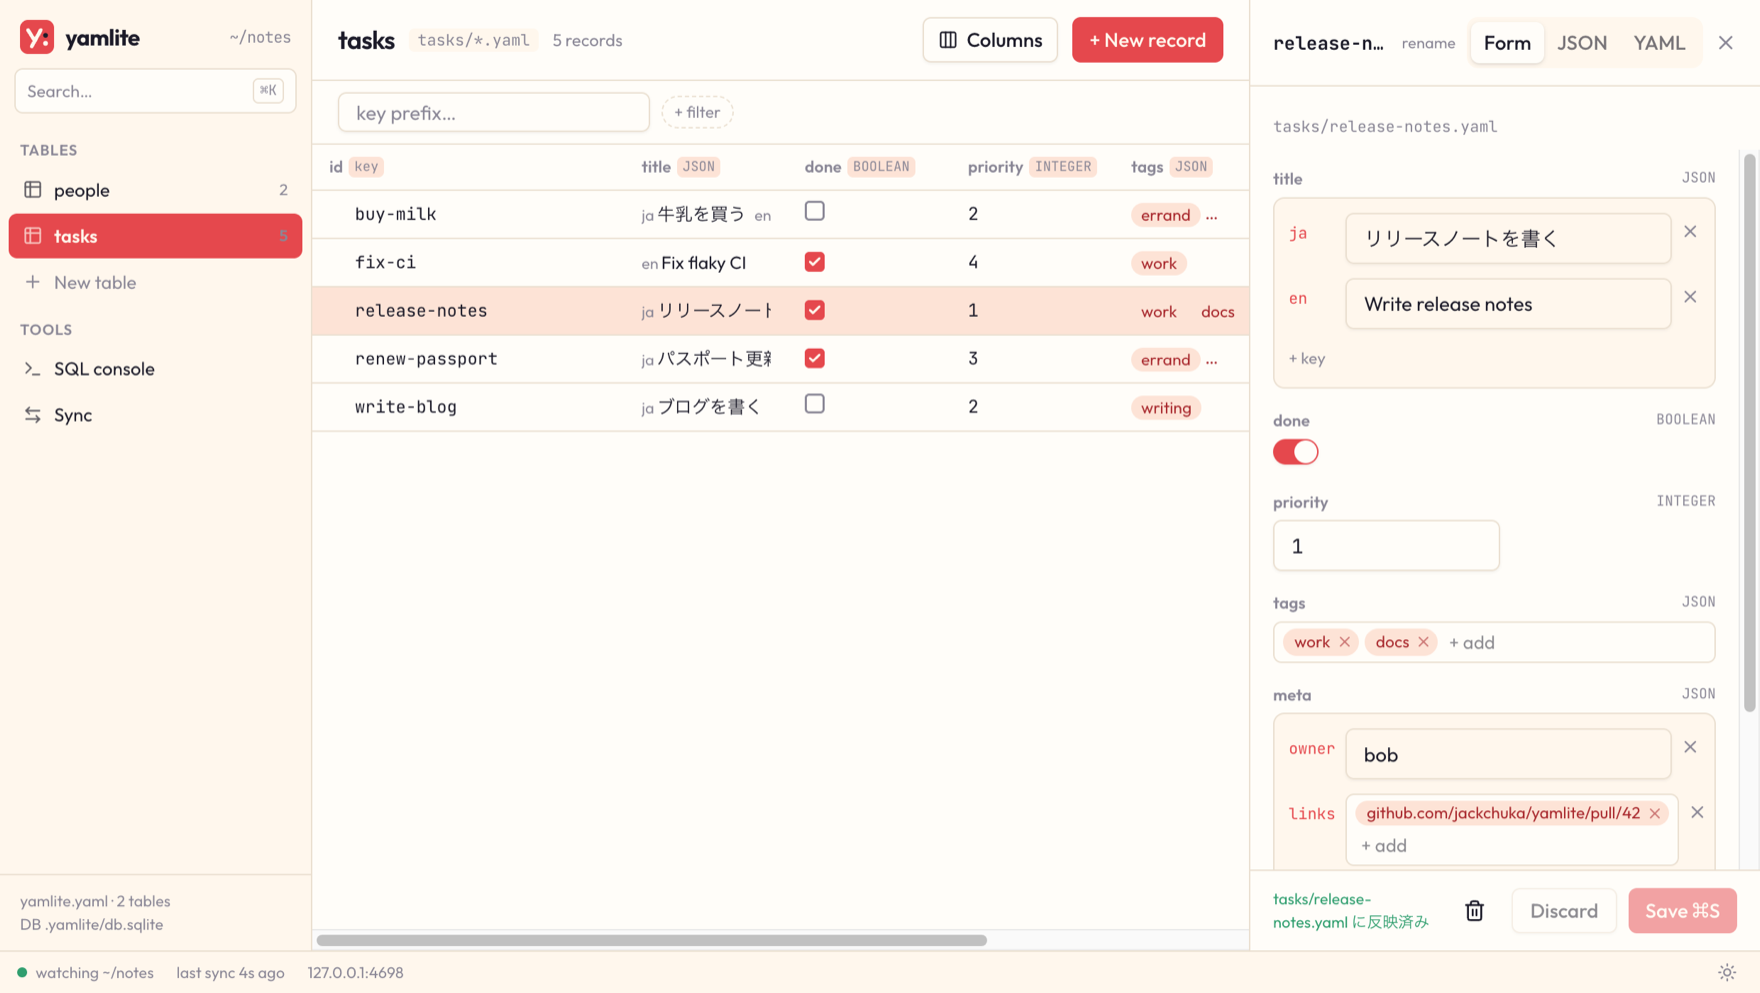
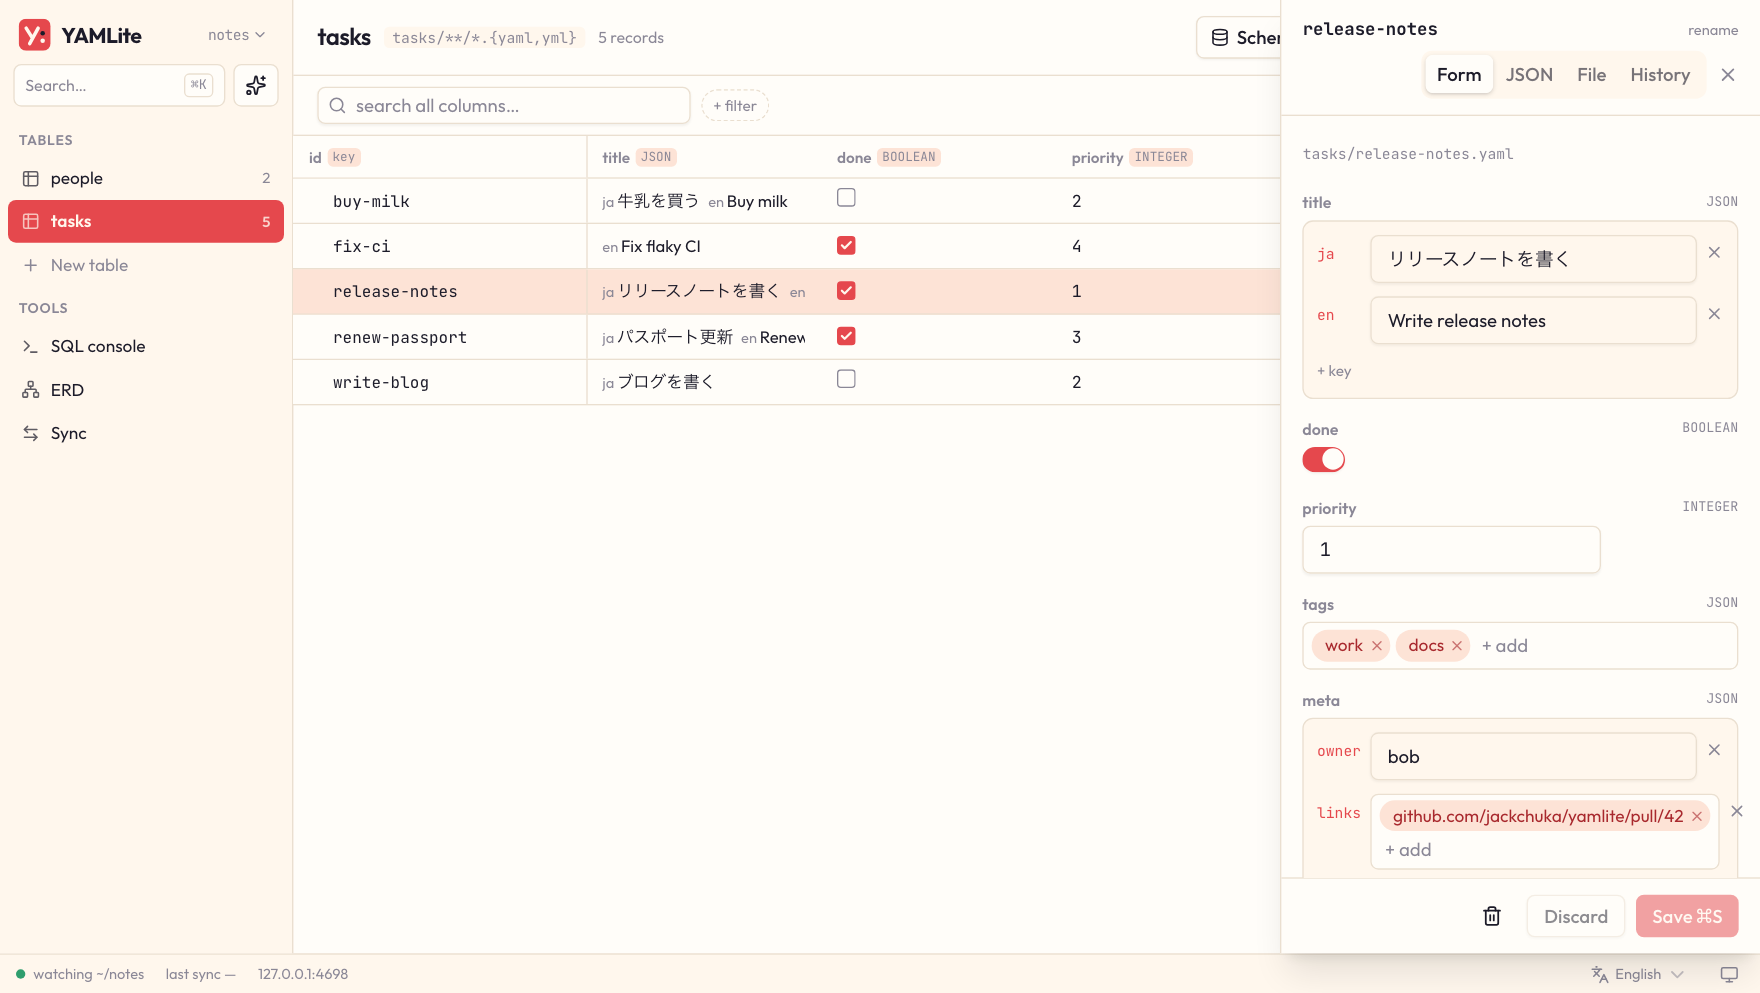
feat: write the product name as YAMLite (#67)
Prose, UI text, CLI banners and messages, the agent prompt, the skill and the docs now say YAMLite. Identifiers stay lowercase: the CLI command, the npm package, yamlite.yaml, .yamlite/, _yamlite_* tables, storage keys and the yamlite/ branch prefix. The demo GIFs and the UI screenshot are re-recorded with the new wordmark.

diff --git a/src/agent/host.ts b/src/agent/host.ts
@@ -26,10 +26,10 @@ const MAX_CONVERSATIONS = 20;
 const MAX_STEPS = 20;
 const TITLE_LENGTH = 30;
 
-const PREAMBLE = `You are helping a user look up and edit the data in a yamlite folder (YAML files kept in sync with SQLite).
+const PREAMBLE = `You are helping a user look up and edit the data in a YAMLite folder (YAML files kept in sync with SQLite).
 Use your tools: start with schema, read with query and get_records.
 You cannot write files or run commands. To change data, call propose_changes, propose_sql or propose_table: they only create a proposal. The proposal appears as a card in this same chat panel, and the user applies it there with the card's apply button ("N 件を適用"). After creating one, tell the user to review the card above and press its apply button; do not send them elsewhere in the UI. Never say data was changed until you are told it was applied.
-For questions about the schema, yamlite.yaml or how to structure data, read the guide tool first. Its workflow is for explaining: you cannot run yamlite commands or edit yamlite.yaml; propose_table is the only schema change you can propose.
+For questions about the schema, yamlite.yaml or how to structure data, read the guide tool first. Its workflow is for explaining: you cannot run YAMLite commands or edit yamlite.yaml; propose_table is the only schema change you can propose.
 Reply in the language the user writes in, briefly and without SQL unless they ask for it.`;
 
 export const GIT_NOTE = `The data folder is in a git repository. Read it with git_status, git_diff, git_log and git_branches. To branch, commit, push, open a pull request or switch branches, call propose_git with the steps in order; like other proposals it runs only when the user presses the card's button ("Run N steps" / "N 件の手順を実行"). Read git_status first and choose the files to commit yourself: only files related to what the user asked. Pull requests are created as drafts. In the proposal title or your reply, say what the user will see afterwards, e.g. that switching back to the default branch hides the committed changes until the PR is merged and pulled, and that uncommitted changes stay as they are.`;
@@ -126,7 +126,7 @@ export class AgentHost {
   }
 
   start(input: StartInput): Conversation {
-    if (this.closed) throw new HttpError(503, "yamlite is shutting down");
+    if (this.closed) throw new HttpError(503, "YAMLite is shutting down");
     const p = providerOf(input.provider);
     if (input.model !== undefined && typeof input.model !== "string")
       throw new HttpError(400, "model must be a string");

diff --git a/src/format.ts b/src/format.ts
@@ -86,7 +86,7 @@ export function report(results: TableResult[], { mode, root, paint, elapsedMs = 
   const nameWidth = Math.max(0, ...results.map((r) => r.table.length));
   const summaryWidth = Math.max(MIN_SUMMARY_WIDTH, ...results.map((r) => summary(r).length + 2));
   const indent = " ".repeat(2 + 1 + 1 + nameWidth + 3);
-  const lines = [`${paint("bold", "yamlite")} ${paint("dim", `· ${displayPath(root)}`)}`, ""];
+  const lines = [`${paint("bold", "YAMLite")} ${paint("dim", `· ${displayPath(root)}`)}`, ""];
 
   for (const r of results) {
     const name = r.table.padEnd(nameWidth);
@@ -142,7 +142,7 @@ export function report(results: TableResult[], { mode, root, paint, elapsedMs = 
 export function checkReport(result: CheckResult, { root, paint }: { root: string; paint: Painter }): string {
   const nameWidth = Math.max(0, ...result.tables.map((t) => t.table.length));
   const indent = " ".repeat(2 + 1 + 1 + nameWidth + 3);
-  const lines = [`${paint("bold", "yamlite")} ${paint("dim", `· ${displayPath(root)}`)}`, ""];
+  const lines = [`${paint("bold", "YAMLite")} ${paint("dim", `· ${displayPath(root)}`)}`, ""];
   const unlisted = new Set(result.unregisteredTables);
   let problems = 0;
   for (const t of result.tables) {
@@ -169,7 +169,7 @@ export function checkReport(result: CheckResult, { root, paint }: { root: string
 
 export function watchHeader(tables: string[], root: string, paint: Painter): string {
   const names = tables.length > 0 ? tables.join(", ") : "(no tables)";
-  return `${paint("bold", "yamlite")} · watching ${names} in ${displayPath(root)} ${paint("dim", "· Ctrl-C to stop")}`;
+  return `${paint("bold", "YAMLite")} · watching ${names} in ${displayPath(root)} ${paint("dim", "· Ctrl-C to stop")}`;
 }
 
 const clock = (now: Date) =>

diff --git a/test/format.test.ts b/test/format.test.ts
@@ -47,7 +47,7 @@ describe("report", () => {
     );
     expect(out).toBe(
       [
-        "yamlite · /data/notes",
+        "YAMLite · /data/notes",
         "",
         "  ✓ people   in sync                               2 records",
         "  ● tasks    1 → db · 1 → file · 1 conflict        4 records",
@@ -81,7 +81,7 @@ describe("report", () => {
     );
     expect(out).toBe(
       [
-        "yamlite · /data/notes",
+        "YAMLite · /data/notes",
         "",
         "  ✓ tasks   1 → db · 2 files deleted · 1 conflict  4 records",
         "            ⚠ buy-milk: changed on both sides · kept db · file version saved to .yamlite/conflicts/tasks/b.yaml",
@@ -103,7 +103,7 @@ describe("watch", () => {
 
   test("header", () => {
     expect(watchHeader(["people", "tasks"], root, plain)).toBe(
-      "yamlite · watching people, tasks in /data/notes · Ctrl-C to stop",
+      "YAMLite · watching people, tasks in /data/notes · Ctrl-C to stop",
     );
   });
 
@@ -312,7 +312,7 @@ test("checkReport lists problems per table and counts them", () => {
   );
   expect(out).toBe(
     [
-      "yamlite · /tmp/data",
+      "YAMLite · /tmp/data",
       "",
       "  ✓ people",
       "  ✗ tasks",

diff --git a/src/export.ts b/src/export.ts
@@ -303,7 +303,7 @@ function checkOut(out: string, force: boolean): void {
     throw new Error(`${out} is a file; pass --force to replace it`);
   }
   if (force || existsSync(join(out, "data", "snapshot.json")) || readdirSync(out).length === 0) return;
-  throw new Error(`${out} is not a yamlite export and not empty; pass --force to replace it`);
+  throw new Error(`${out} is not a YAMLite export and not empty; pass --force to replace it`);
 }
 
 // symlinks and letter case (on case-insensitive volumes) resolved, so another spelling of the root cannot slip past
@@ -332,7 +332,7 @@ function checkAgainstRoot(out: string, root: string): void {
   if (escapes(inside)) return;
   const segments = inside.split(sep);
   if (segments[0] === ".yamlite")
-    throw new Error(`refusing to write to ${out}: it is yamlite's state folder ${join(root, ".yamlite")}`);
+    throw new Error(`refusing to write to ${out}: it is YAMLite's state folder ${join(root, ".yamlite")}`);
   if (segments.some((segment) => segment.startsWith("."))) return;
   throw new Error(
     `${out} is inside the data root and would be synced as a table; use a folder outside it or a dot-folder such as .yamlite-export`,

diff --git a/src/index.ts b/src/index.ts
@@ -99,12 +99,12 @@ export async function open(options: OpenOptions): Promise<Yamlite> {
       return config.pages;
     },
     async status(opts = {}) {
-      if (closed) throw new Error("yamlite is closed");
+      if (closed) throw new Error("YAMLite is closed");
       const dbTime = store.lastWriteMs();
       return withChecks(select(opts.tables).map((t) => syncTable(ctx, t, { dryRun: true, dbTime })));
     },
     async sync(opts = {}) {
-      if (closed) throw new Error("yamlite is closed");
+      if (closed) throw new Error("YAMLite is closed");
       const tables = select(opts.tables);
       // read before this sync writes anything, so that only other writers move it
       const dbTime = store.lastWriteMs();
@@ -115,7 +115,7 @@ export async function open(options: OpenOptions): Promise<Yamlite> {
       );
     },
     watch(handlers = {}, opts = {}) {
-      if (closed) throw new Error("yamlite is closed");
+      if (closed) throw new Error("YAMLite is closed");
       if (watcher) throw new Error("already watching");
       lock();
       const source =

diff --git a/test/views.test.ts b/test/views.test.ts
@@ -295,7 +295,7 @@ describe("reconcileViews", () => {
     write(t.file("website"), "milestones: [{ title: Design }]\n");
     const r = t.sync();
     expect(r.warnings).toEqual([
-      "view projects__milestones not created: a view with that name is not managed by yamlite",
+      "view projects__milestones not created: a view with that name is not managed by YAMLite",
     ]);
     expect(sql(t.db, "SELECT * FROM projects__milestones")).toEqual([{ mine: 1 }]);
   });
@@ -318,7 +318,7 @@ describe("reconcileViews", () => {
     const r = t.sync();
     expect(r.ok).toBe(true);
     expect(r.warnings).toEqual([
-      "view projects__milestones not created: a table with that name is not managed by yamlite",
+      "view projects__milestones not created: a table with that name is not managed by YAMLite",
     ]);
     expect(sql(t.db, "SELECT x FROM projects__milestones")).toEqual([{ x: 1 }]);
     expect(sql(t.db, "SELECT count(*) AS n FROM _yamlite_views")).toEqual([{ n: 0 }]);

diff --git a/src/init.ts b/src/init.ts
@@ -27,7 +27,7 @@ export interface InitOptions {
 }
 
 const HEADER = [
-  " The schema of record for this folder. yamlite adds new tables and columns here as it finds them;",
+  " The schema of record for this folder. YAMLite adds new tables and columns here as it finds them;",
   " edit types, keys and indexes to change the database.",
 ].join("\n");
 
@@ -321,7 +321,7 @@ export function generateConfig(opts: InitOptions): string {
                 };
           const item = doc.createNode(value, { flow: true });
           if (adoptedFrom)
-            item.commentBefore = ` replaces index "${adoptedFrom}" created outside yamlite; drop it after adopting`;
+            item.commentBefore = ` replaces index "${adoptedFrom}" created outside YAMLite; drop it after adopting`;
           items.items.push(item);
         }
         (node as unknown as { set: (k: string, v: unknown) => void }).set("indexes", items);

diff --git a/test/init.test.ts b/test/init.test.ts
@@ -7,7 +7,7 @@ import { open } from "../src/index.ts";
 import { read, sql, tmpRoot, write } from "./helpers.ts";
 
 const HEADER = [
-  "# The schema of record for this folder. yamlite adds new tables and columns here as it finds them;",
+  "# The schema of record for this folder. YAMLite adds new tables and columns here as it finds them;",
   "# edit types, keys and indexes to change the database.",
   "",
 ];
@@ -314,7 +314,7 @@ describe("generateConfig", () => {
         "      extra: REAL",
         "    indexes:",
         "      - [title]",
-        '      # replaces index "by_priority" created outside yamlite; drop it after adopting',
+        '      # replaces index "by_priority" created outside YAMLite; drop it after adopting',
         "      - {columns: [priority], unique: true}",
         "",
       ].join("\n"),

diff --git a/ui/src/components/AiSettings.test.tsx b/ui/src/components/AiSettings.test.tsx
@@ -54,9 +54,9 @@ test("a model outside the suggestions can be typed and is marked unverified", ()
   const onSave = renderSettings();
   const model = screen.getByLabelText("Model") as HTMLInputElement;
   expect(model.value).toBe("gpt-5");
-  expect(screen.queryByText(/not been checked with yamlite/)).toBeNull();
+  expect(screen.queryByText(/not been checked with YAMLite/)).toBeNull();
   fireEvent.change(model, { target: { value: "gpt-6" } });
-  expect(screen.getByText(/not been checked with yamlite/)).toBeTruthy();
+  expect(screen.getByText(/not been checked with YAMLite/)).toBeTruthy();
   fireEvent.submit(screen.getByRole("form", { name: "AI settings" }));
   expect(onSave).toHaveBeenCalledWith({ provider: "openai", model: "gpt-6", apiKey: "" }, false);
 });

diff --git a/src/config.ts b/src/config.ts
@@ -563,7 +563,7 @@ function toPages(raw: unknown, root: string, tables: TableSpec[]): PageSpec[] {
     const access: Record<string, PageAccess> = {};
     for (const [target, level] of Object.entries((v.access ?? {}) as Record<string, unknown>)) {
       if (target.startsWith("_yamlite")) {
-        throw new Error(`${where}${target} is yamlite's bookkeeping and cannot be in access`);
+        throw new Error(`${where}${target} is YAMLite's bookkeeping and cannot be in access`);
       }
       if (level !== "read" && level !== "write") throw new Error(`${where}access.${target} must be read or write`);
       if (viewNames.has(target)) {

diff --git a/src/agent/tools.ts b/src/agent/tools.ts
@@ -68,7 +68,7 @@ export function agentTools(ctx: ApiContext, conversationId: string): AgentTool[]
     {
       name: "schema",
       description:
-        "List the tables and views in this yamlite folder: key column, column types, formats, allowed values, required columns, bounds and references. Call this first.",
+        "List the tables and views in this YAMLite folder: key column, column types, formats, allowed values, required columns, bounds and references. Call this first.",
       inputSchema: { type: "object", properties: {} },
       call: () => ({
         tables: ctx.y.tables.map((t) => ({

diff --git a/test/export.test.ts b/test/export.test.ts
@@ -260,7 +260,7 @@ test("a previous export is replaced, another folder is refused unless forced", a
 
   const other = tmpRoot();
   write(join(other, "keep.txt"), "mine");
-  await expect(exportSite({ root, out: other, uiDir: ui() })).rejects.toThrow("not a yamlite export");
+  await expect(exportSite({ root, out: other, uiDir: ui() })).rejects.toThrow("not a YAMLite export");
   expect(readFileSync(join(other, "keep.txt"), "utf8")).toBe("mine");
   await exportSite({ root, out: other, uiDir: ui(), force: true });
   expect(existsSync(join(other, "keep.txt"))).toBe(false);
